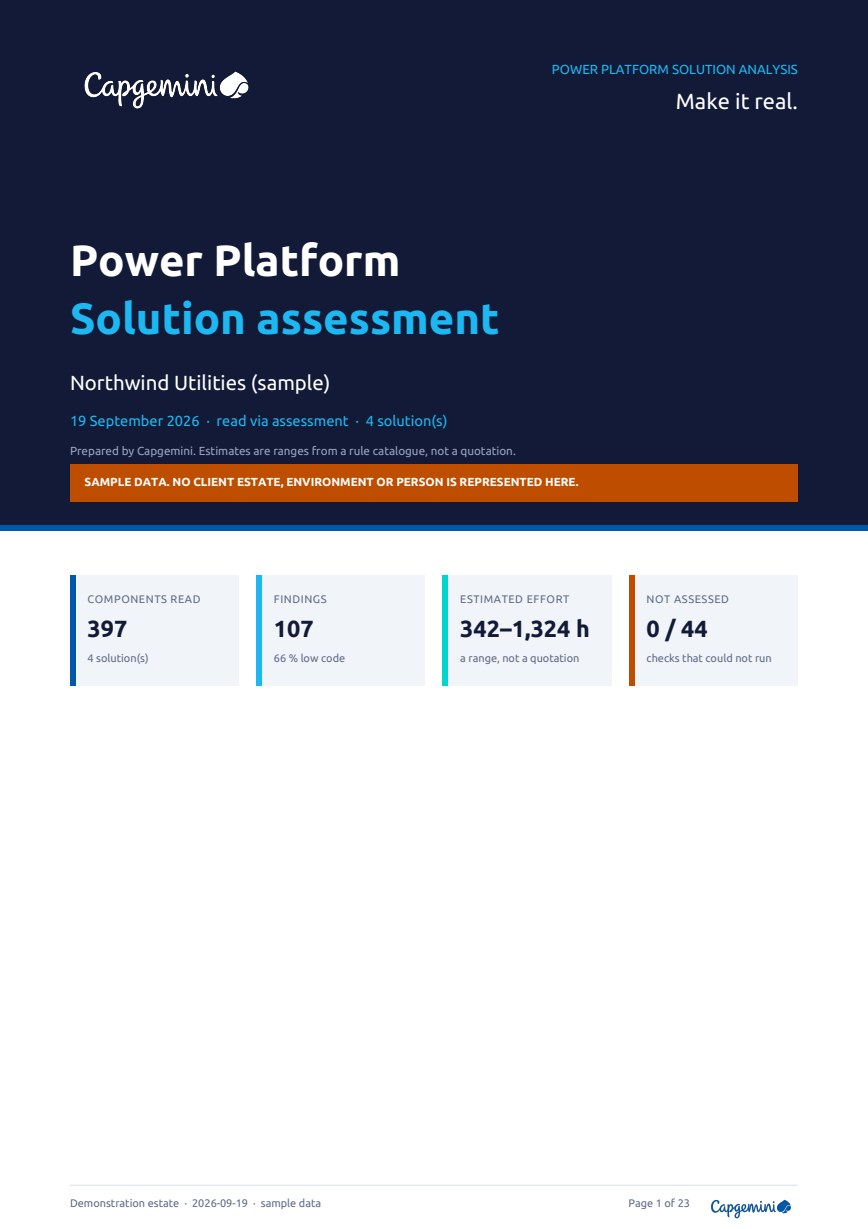
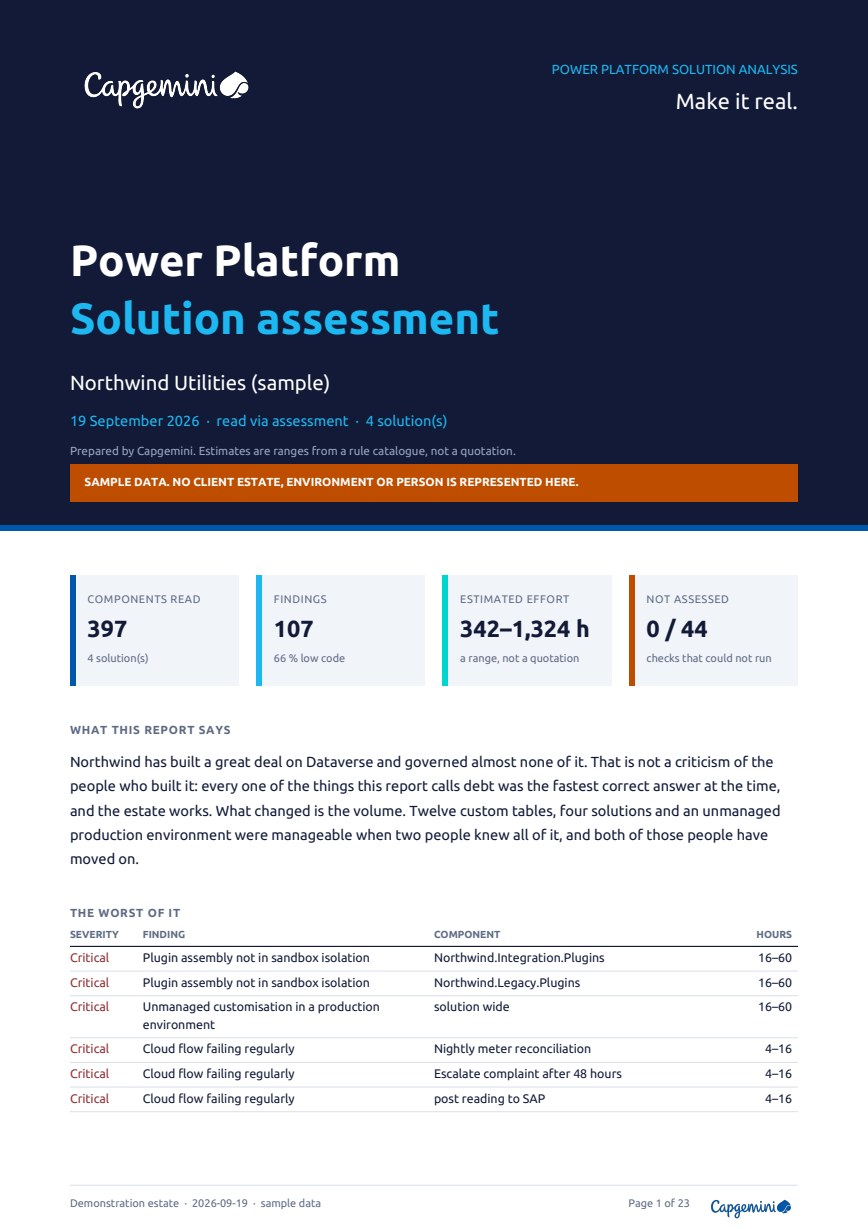
Fill the front page of the report
It was the navy band, four figures and then most of a page of white, which
reads as a document somebody abandoned rather than as a cover. The sibling
reports carry their argument on page one.

Under the figures: what the report says, and the worst of what it found.
The paragraph is the consultant's where there is one, falling back to a
generated sentence rather than to the section prompt, because a prompt is
right on the page that asks for it and wrong on a cover that gets forwarded
to somebody, where it reads as an unfinished draft. Then six findings,
worst first and longest first within a severity, with their estimates.

Only the first paragraph of the summary. A cover that reprints the whole
thing gives a reader no reason to turn over.

diff --git a/src/PowerPete.Analyzer.Export/AssessmentReportPdf.cs b/src/PowerPete.Analyzer.Export/AssessmentReportPdf.cs
@@ -413,6 +413,82 @@ public sealed partial class AssessmentReportPdf
                 }
             },
             gap: 12f);
+
+        CoverStatement(flow, model);
+    }
+
+    /// <summary>
+    /// What the report says, and the worst of what it found, under the figures.
+    /// </summary>
+    /// <remarks>
+    /// The cover used to stop after the four figures and leave most of the page white,
+    /// which reads as a document somebody abandoned rather than as a cover. The sibling
+    /// reports carry their argument on page one and so does this one now.
+    ///
+    /// The paragraph is the consultant's, where there is one. Falling back to the
+    /// generated sentence rather than to a prompt is deliberate: a prompt is the right
+    /// thing on the page that asks for it and the wrong thing on a cover a client is
+    /// forwarded, where it reads as an unfinished draft.
+    /// </remarks>
+    /// <param name="flow">The cover.</param>
+    /// <param name="model">What to write.</param>
+    private static void CoverStatement(Flow flow, Model model)
+    {
+        flow.Text(model.Text["report.whatThisSays", "What this report says"].ToUpperInvariant(),
+            new TextStyle { Size = 8, Bold = true, Colour = CapgeminiBrand.Muted, LetterSpacing = 0.5f },
+            paddingTop: 26f);
+
+        var written = model.Written.TryGetValue("managementSummary", out var paragraph)
+            && !string.IsNullOrWhiteSpace(paragraph)
+                ? paragraph
+                : null;
+
+        // The first paragraph only. The rest of it is on the management summary page and a
+        // cover that reprints the whole thing gives a reader no reason to turn over.
+        var opening = written?.Split(["\n\n"], StringSplitOptions.RemoveEmptyEntries).FirstOrDefault()
+            ?? string.Create(Culture,
+                $"{model.Score.ComponentsTotal} components across {model.SolutionNames.Count} solution(s), "
+                + $"{model.Findings.Count} findings, and {model.Score.NotAssessed.Count} checks that could not run. "
+                + $"Nothing in this document was written by hand: every finding below came from a rule with its "
+                + $"detection, its reasoning and its estimate declared in a catalogue.");
+
+        flow.Text(opening, new TextStyle { Size = 10, LineHeight = 1.5f }, paddingTop: 8f);
+
+        var worst = model.Findings
+            .Where(entry => entry.Finding.Severity <= Severity.High)
+            .OrderBy(entry => entry.Finding.Severity)
+            .ThenByDescending(entry => entry.Estimate.HighHours)
+            .Take(6)
+            .ToList();
+
+        if (worst.Count == 0) return;
+
+        flow.Text(model.Text["report.theWorstOfIt", "The worst of it"].ToUpperInvariant(),
+            new TextStyle { Size = 8, Bold = true, Colour = CapgeminiBrand.Muted, LetterSpacing = 0.5f },
+            paddingTop: 22f);
+
+        flow.Table(table =>
+        {
+            table.Columns(1, 4, 3, 2);
+            table.Header(
+                [
+                    model.Text["report.severity", "Severity"],
+                    model.Text["report.finding", "Finding"],
+                    model.Text["report.component", "Component"],
+                    model.Text["report.hours", "Hours"]
+                ],
+                [false, false, false, true]);
+
+            foreach (var entry in worst)
+            {
+                table.Cell(entry.Finding.Severity.ToString(), colour: SeverityColour(entry.Finding.Severity));
+                table.Cell(RuleName(model, entry.Finding));
+                table.Cell(entry.Finding.ComponentName ?? model.Text["report.solutionWide", "solution wide"]);
+                table.Cell(
+                    string.Create(Culture, $"{entry.Estimate.LowHours:0.#}–{entry.Estimate.HighHours:0.#}"),
+                    right: true);
+            }
+        });
     }
 
     private static void Heading(Flow flow, string text)
